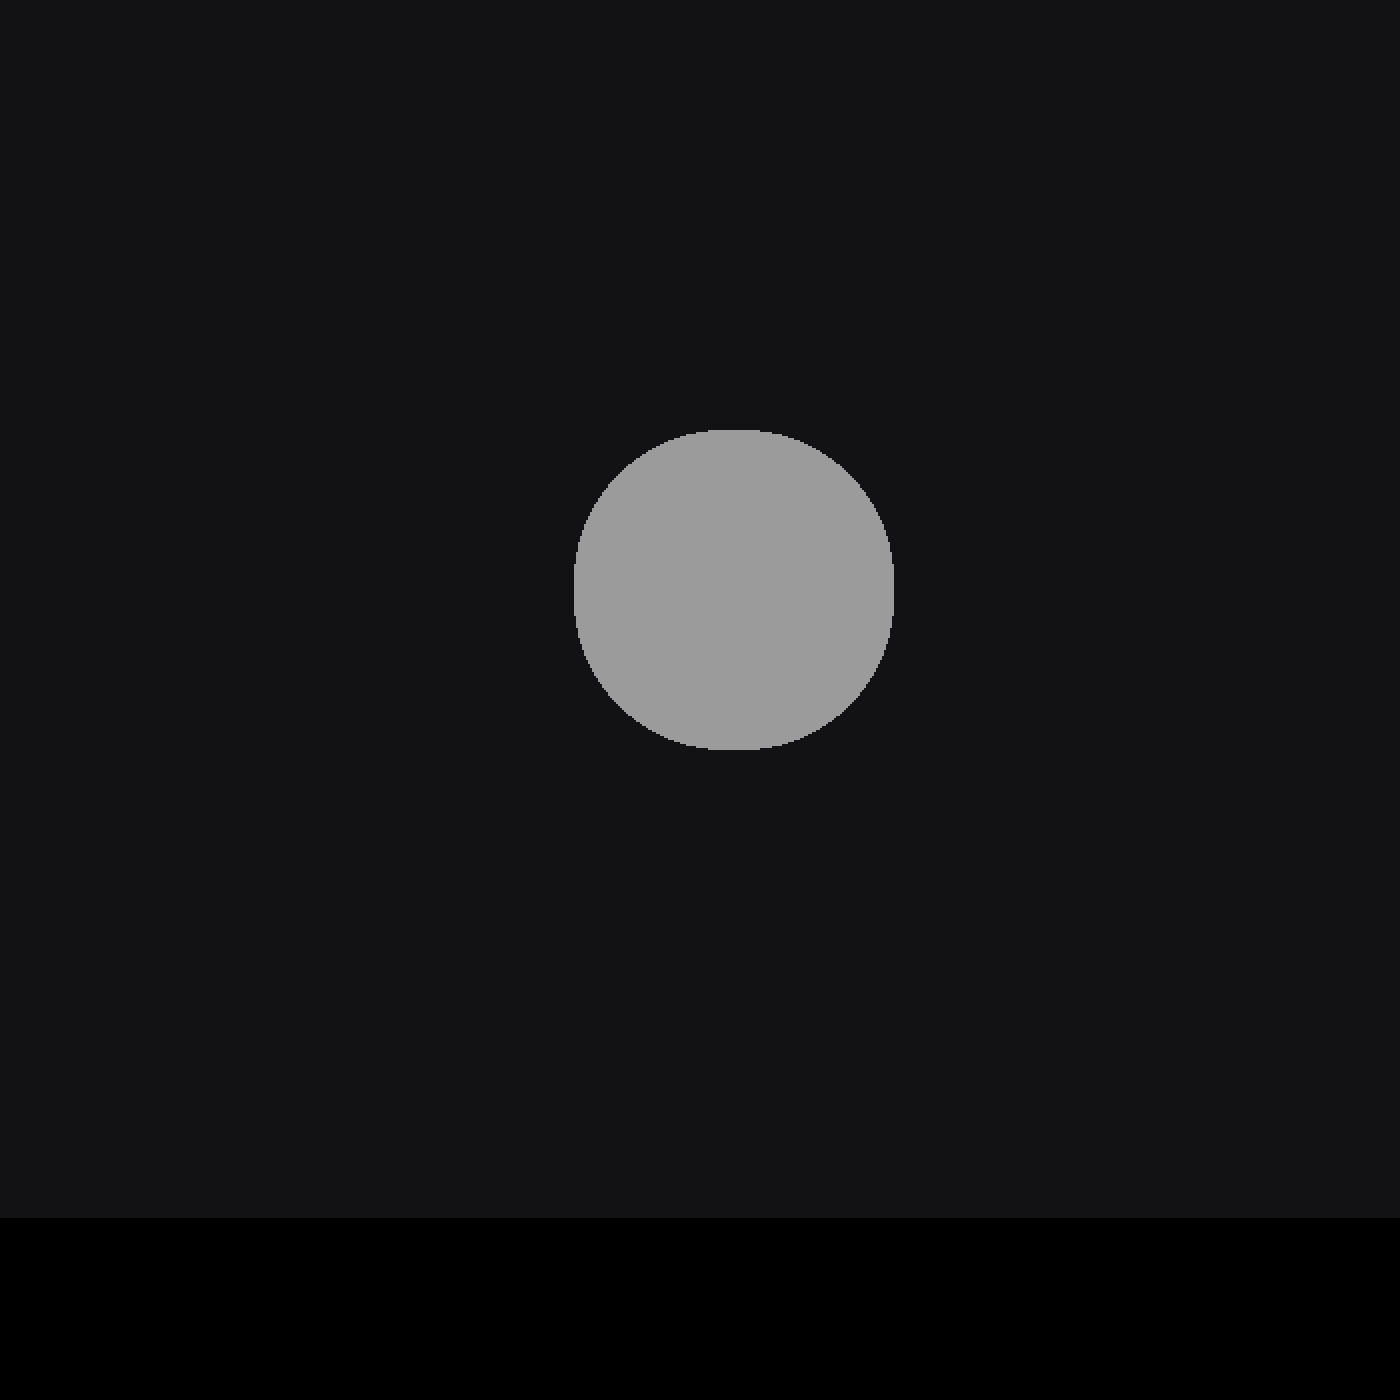
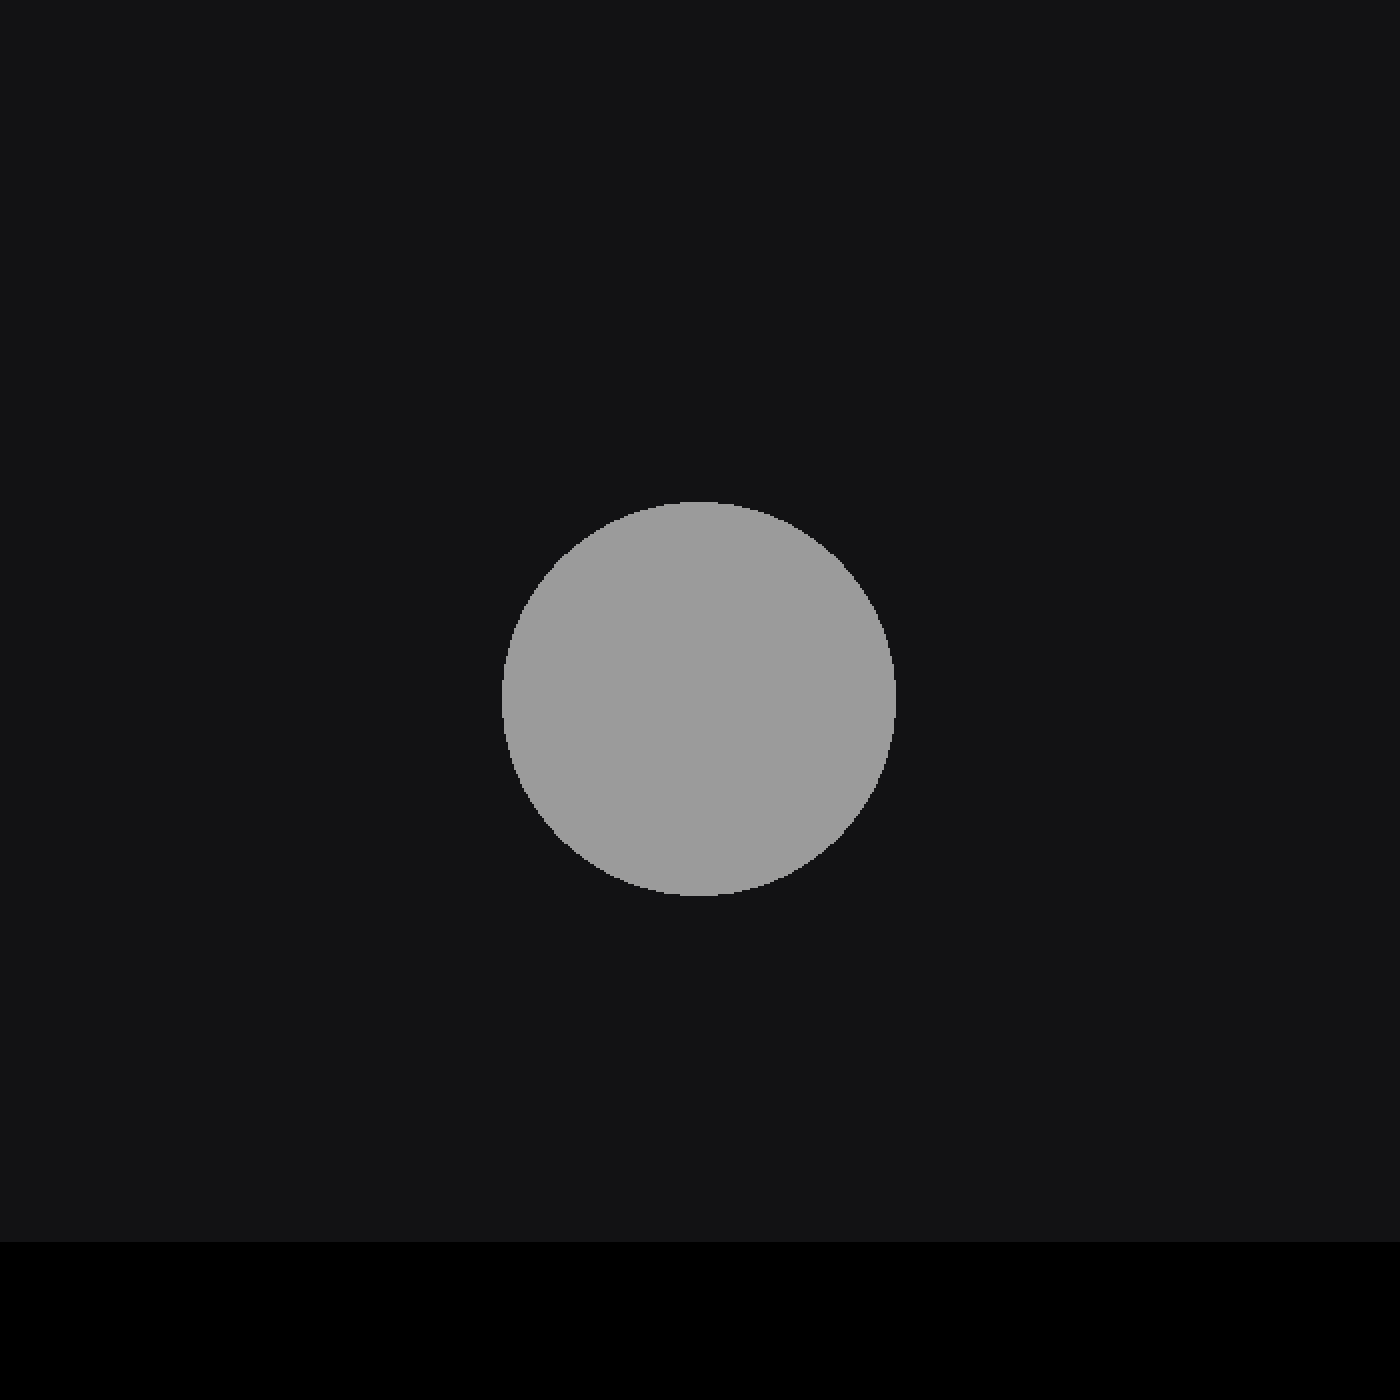
updating map tiles

Changed region(s): [[0.3379, 0.3071, 0.645, 0.645]]

diff --git a/index.js b/index.js
@@ -1,44 +1,54 @@
-
 function preload() {
-  roadHorizontal = loadImage("./assets/road-horizontal.png");
-  roadVertical =loadImage('./assets/road-vertical.png')
-  roadEdgeDown = loadImage("./assets/road-edge-down.png");
-  roadEdgeUp = loadImage("./assets/road-edge-up.png");
-  roadEdgeRight = loadImage("./assets/road-edge-right.png");
-  roadEdgeLeft = loadImage("./assets/road-edge-left.png");
+  roadHorizontal = loadImage('./assets/road-horizontal.png');
+  roadVertical = loadImage('./assets/road-vertical.png');
+  roadEdgeDown = loadImage('./assets/road-edge-down.png');
+  roadEdgeUp = loadImage('./assets/road-edge-up.png');
+  roadEdgeRight = loadImage('./assets/road-edge-right.png');
+  roadEdgeLeft = loadImage('./assets/road-edge-left.png');
+  roadTransferLeftUp = loadImage('./assets/road-transfer-left-up.png');
+  roadTransferLeftDown = loadImage('./assets/road-transfer-left-down.png');
+  roadTransferRightDown = loadImage("./assets/road-transfer-right-down.png");
+  roadHorizontalDown = loadImage("./assets/road-horizontal-down.jpg");
 }
 function setup() {
-  let tiles = [
+  let mapTiles = [
     // 2d array of image data
     [null,null,null,null,null,null,null,null,null,null,null,null,null,null,null,null,null,null,null,null],
     [null,null,null,null,null,null,null,null,null,null,null,null,null,null,null,null,null,null,null,null],
     [null,null,null,null,null,null,null,null,null,null,null,null,null,null,null,null,null,null,null,null],
     [null,null,null,null,null,null,null,null,null,null,null,null,null,null,null,null,null,null,null,null],
     [null,null,null,null,null,null,null,null,null,null,null,null,null,null,null,null,null,null,null,null],
+    [null,null,null,null,null,roadTransferLeftDown,roadHorizontal,roadHorizontal,roadHorizontal,roadHorizontal,roadHorizontal,roadHorizontal,roadTransferRightDown,null,null,null,null,null,null,null],
+    [null,null,null,null,null,roadVertical,null,null,null,null,null,null,roadVertical,null,null,null,null,null,null,null],
+    [null,null,null,null,null,roadVertical,null,null,null,null,null,null,roadVertical,null,null,null,null,null,null,null],
+    [null,null,roadEdgeLeft,roadHorizontal,roadHorizontal,roadHorizontal,roadHorizontal,roadHorizontal,roadHorizontal,roadHorizontal,roadHorizontal,roadHorizontal,roadHorizontalDown,roadHorizontal,roadHorizontal,roadTransferRightDown,null,null,null,null],
+    [null,null,null,null,null,null,null,null,null,null,null,null,roadVertical,null,null,roadVertical,null,null,null,null],
+    [null,null,null,null,null,null,null,null,null,null,null,null,roadVertical,null,null,roadVertical,null,null,null,null],
+    [null,null,null,null,null,null,null,null,null,null,null,null,roadVertical,null,null,roadVertical,null,null,null,null],
+    [null,null,null,null,null,null,null,null,null,null,null,null,roadTransferLeftUp,roadHorizontal,roadHorizontal,roadTransferRightDown,null,null,null,null],
     [null,null,null,null,null,null,null,null,null,null,null,null,null,null,null,null,null,null,null,null],
     [null,null,null,null,null,null,null,null,null,null,null,null,null,null,null,null,null,null,null,null],
     [null,null,null,null,null,null,null,null,null,null,null,null,null,null,null,null,null,null,null,null],
-    [null,null,null,null,null,roadEdgeUp,roadHorizontal,roadHorizontal,roadHorizontal,roadHorizontal,roadHorizontal,roadHorizontal,roadHorizontal,roadHorizontal,roadEdgeRight,null,null,null,null,null],
-    [null,null,null,null,null,roadVertical,null,null,null,null,null,null,null,null,null,null,null,null,null,null],
-    [null,null,null,null,null,roadVertical,null,null,null,null,null,null,null,null,null,null,null,null,null,null],
-    [null,null,null,null,null,roadVertical,null,null,null,null,null,null,null,null,null,null,null,null,null,null],
-    [null,null,null,null,null,roadVertical,null,null,null,null,null,null,null,null,null,null,null,null,null,null],
-    [null,null,null,null,null,roadEdgeLeft,roadHorizontal,roadHorizontal,roadHorizontal,roadHorizontal,roadHorizontal,roadHorizontal,roadHorizontal,roadHorizontal,roadEdgeRight,null,null,null,null,null],
     [null,null,null,null,null,null,null,null,null,null,null,null,null,null,null,null,null,null,null,null],
     [null,null,null,null,null,null,null,null,null,null,null,null,null,null,null,null,null,null,null,null],
     [null,null,null,null,null,null,null,null,null,null,null,null,null,null,null,null,null,null,null,null],
     [null,null,null,null,null,null,null,null,null,null,null,null,null,null,null,null,null,null,null,null],
-  ];
+    [null,null,null,null,null,null,null,null,null,null,null,null,null,null,null,null,null,null,null,null],
+
+  ]
+  let gameTiles = [[]];
   gameCanvas = createCanvas(WIDTH, HEIGHT);
-  gameCanvas.parent("canvas-container");
+  gameCanvas.parent('canvas-container');
   background(25, 25, 25);
   //   noStroke();
   // let button = createImage(100,100);
   // button.position(300,300);
   // button.mousePressed(TestClicked)
-  drawMap(tiles);
+  drawMap(mapTiles);
+  drawGame(gameTiles);
 }
 function draw() {}
-function TestClicked() {
-  alert("this is a test");
+
+function windowResized() {
+  resizeCanvas(windowWidth - (20 / 100) * windowWidth, windowHeight);
 }

diff --git a/index.html b/index.html
@@ -1,20 +1,24 @@
 <!DOCTYPE html>
 <html lang="en">
+
 <head>
     <meta charset="UTF-8">
     <meta http-equiv="X-UA-Compatible" content="IE=edge">
     <meta name="viewport" content="width=device-width, initial-scale=1.0">
     <link rel="stylesheet" href="styles.css">
-    <script src = './objects/car.js'></script>
-    <script src ='/objects/house.js'></script>
-    <script src = 'p5.js'></script>
-    <script src = './objects/pet.js'></script>
-    <script src = 'constants.js'></script>
+    <script src='./objects/car.js'></script>
+    <script src='/objects/house.js'></script>
+    <script src='p5.js'></script>
+    <script src='./objects/pet.js'></script>
+    <script src='constants.js'></script>
     <script src="/objects/grid.js"></script>
-    <script src = 'index.js' defer></script>
+    <script src='index.js' defer></script>
     <title>Pet Detective</title>
 </head>
+
 <body>
     <div id="canvas-container"></div>
+    </div>
 </body>
+
 </html>

diff --git a/objects/grid.js b/objects/grid.js
@@ -4,16 +4,16 @@ function drawMap(mapTiles) {
       if(mapTiles[x][y] !== null){
         // rect(y*TILEWIDTH,x*TILEHEIGHT,TILEWIDTH,TILEHEIGHT);
         image(mapTiles[x][y],y*TILEWIDTH,x*TILEHEIGHT,TILEWIDTH,TILEHEIGHT)
-      } 
+      }
     }
   }
 }
 function drawGame(gameTiles) {
-  for (let x = 0; x < mapTiles.length; x++) {
-    for (let y = 0; y < mapTiles[x].length; y++) {
-      if(mapTiles[x][y] !== null){
+  for (let x = 0; x < gameTiles.length; x++) {
+    for (let y = 0; y < gameTiles[x].length; y++) {
+      if(gameTiles[x][y] !== null){
         // rect(y*TILEWIDTH,x*TILEHEIGHT,TILEWIDTH,TILEHEIGHT);
-        image(mapTiles[x][y],y*TILEWIDTH,x*TILEHEIGHT,TILEWIDTH,TILEHEIGHT)
+        rect(y*TILEWIDTH,x*TILEHEIGHT,TILEWIDTH/2,TILEHEIGHT/2)
       } 
     }
   }

diff --git a/constants.js b/constants.js
@@ -1,4 +1,4 @@
-const WIDTH = 1400;
-const HEIGHT = 800;
-const TILEWIDTH = WIDTH/20;
-const TILEHEIGHT = HEIGHT/20;
+let WIDTH = 1100;
+let HEIGHT = 900;
+let TILEWIDTH = WIDTH/20;
+let TILEHEIGHT = HEIGHT/20;

diff --git a/styles.css b/styles.css
@@ -5,4 +5,5 @@ body{
     display: grid;
     height: 98vh;
     place-items: center;
+    height:auto;
 }
